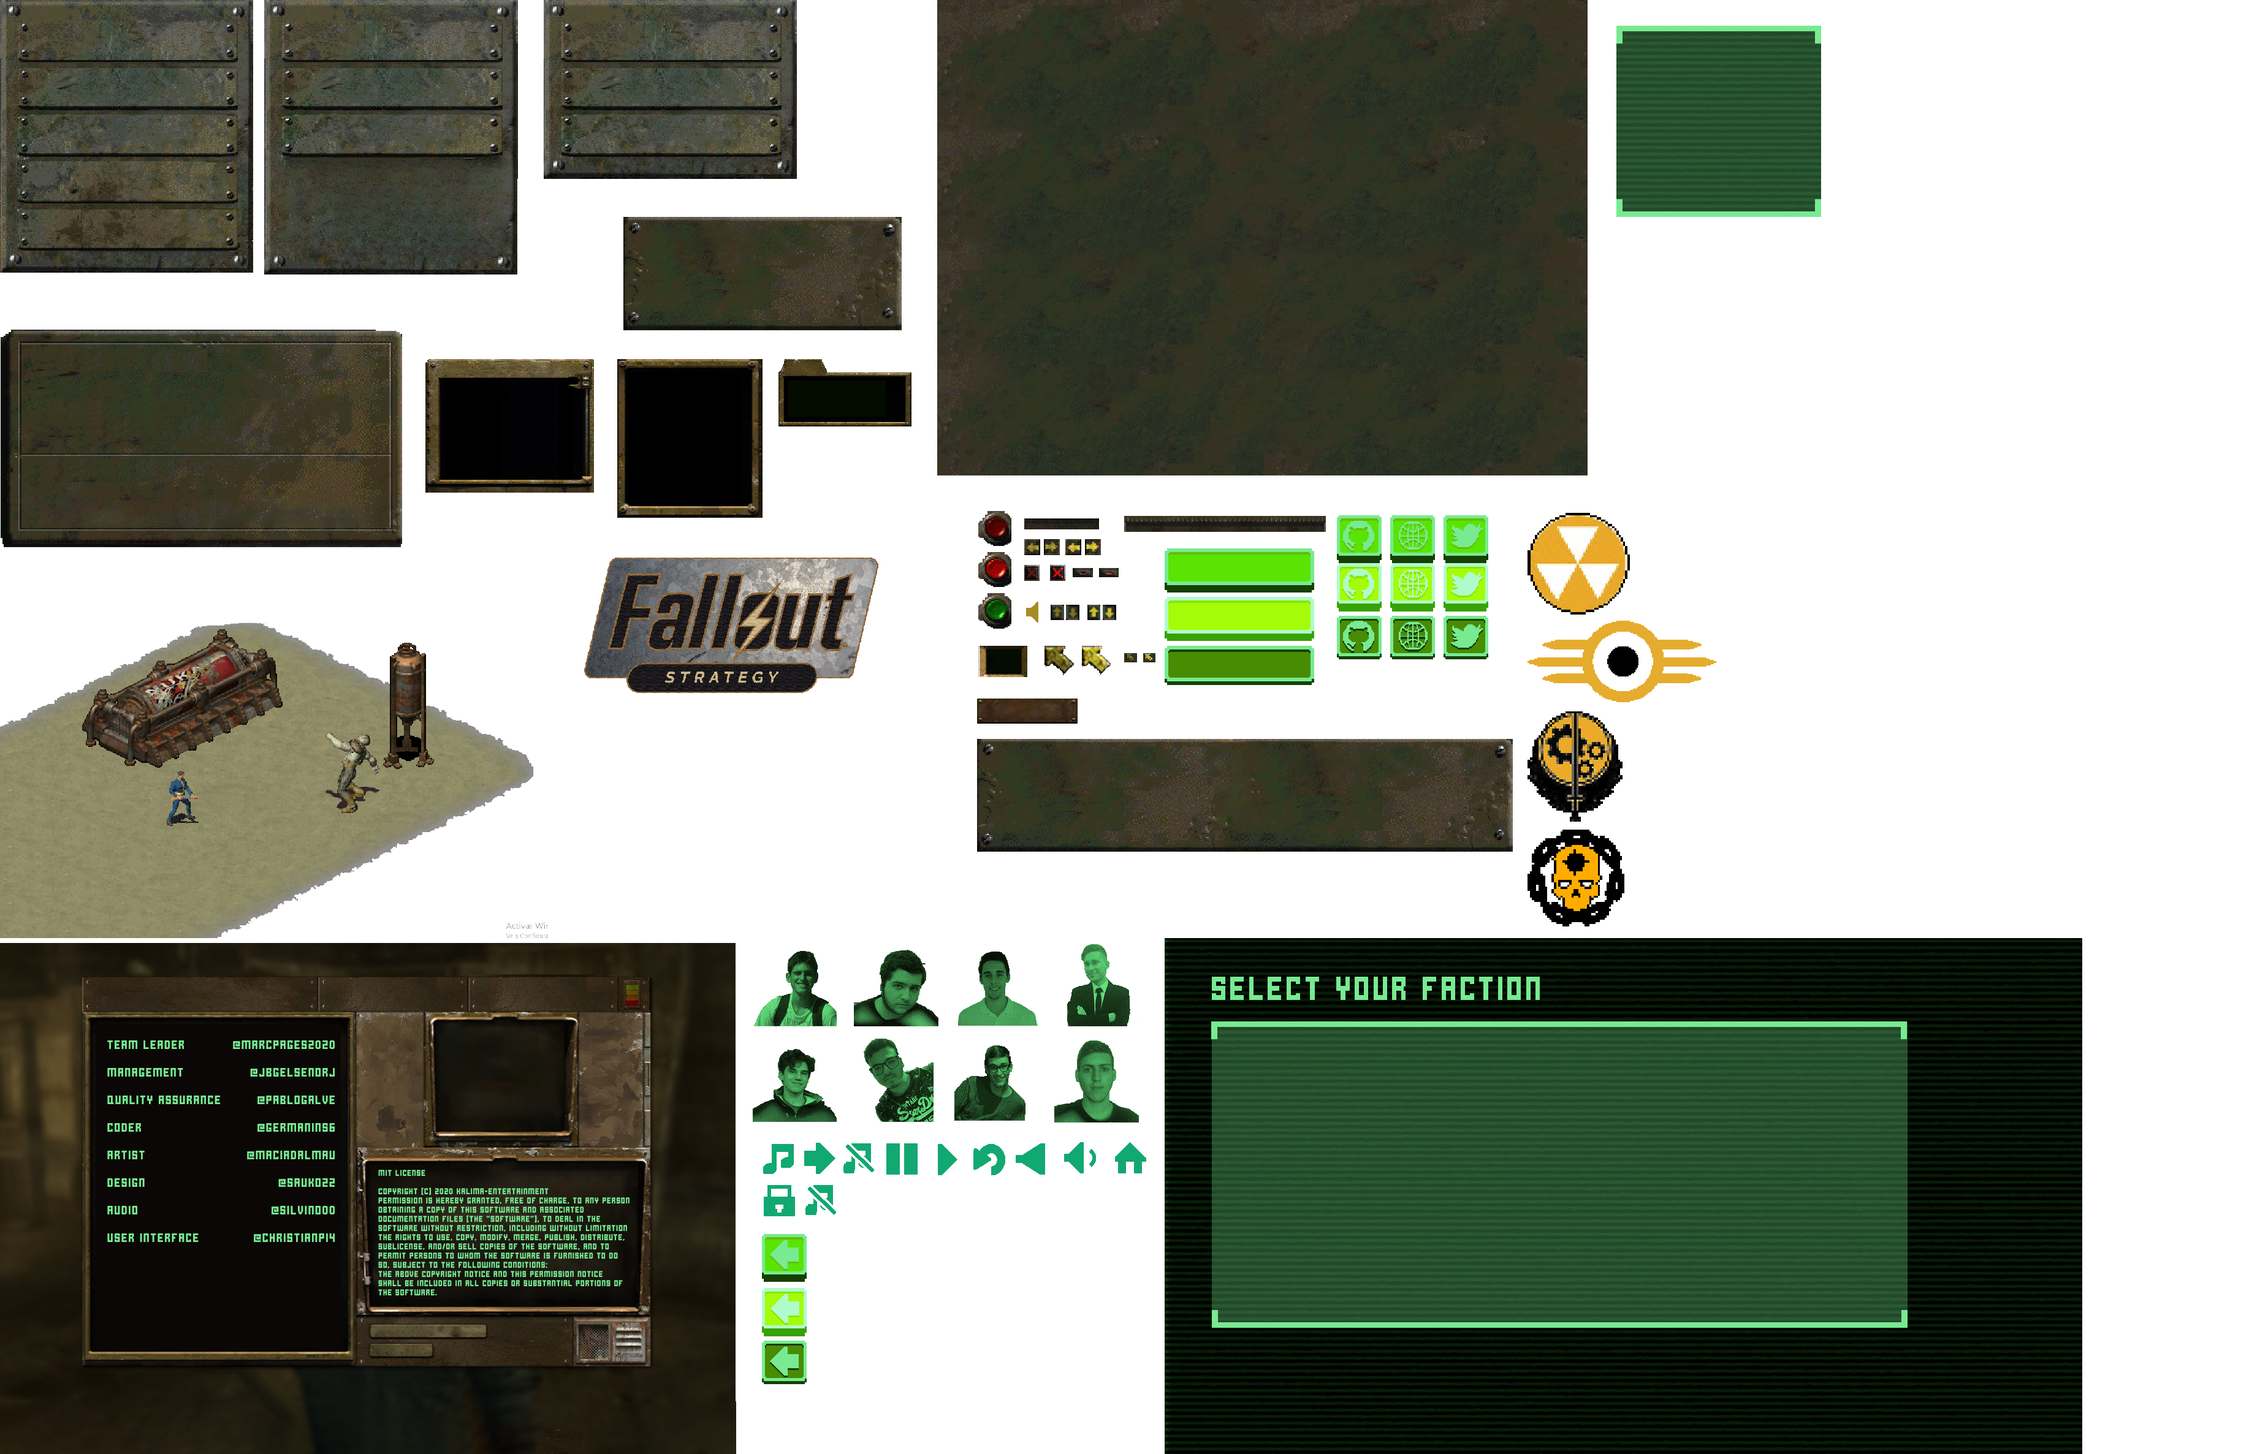
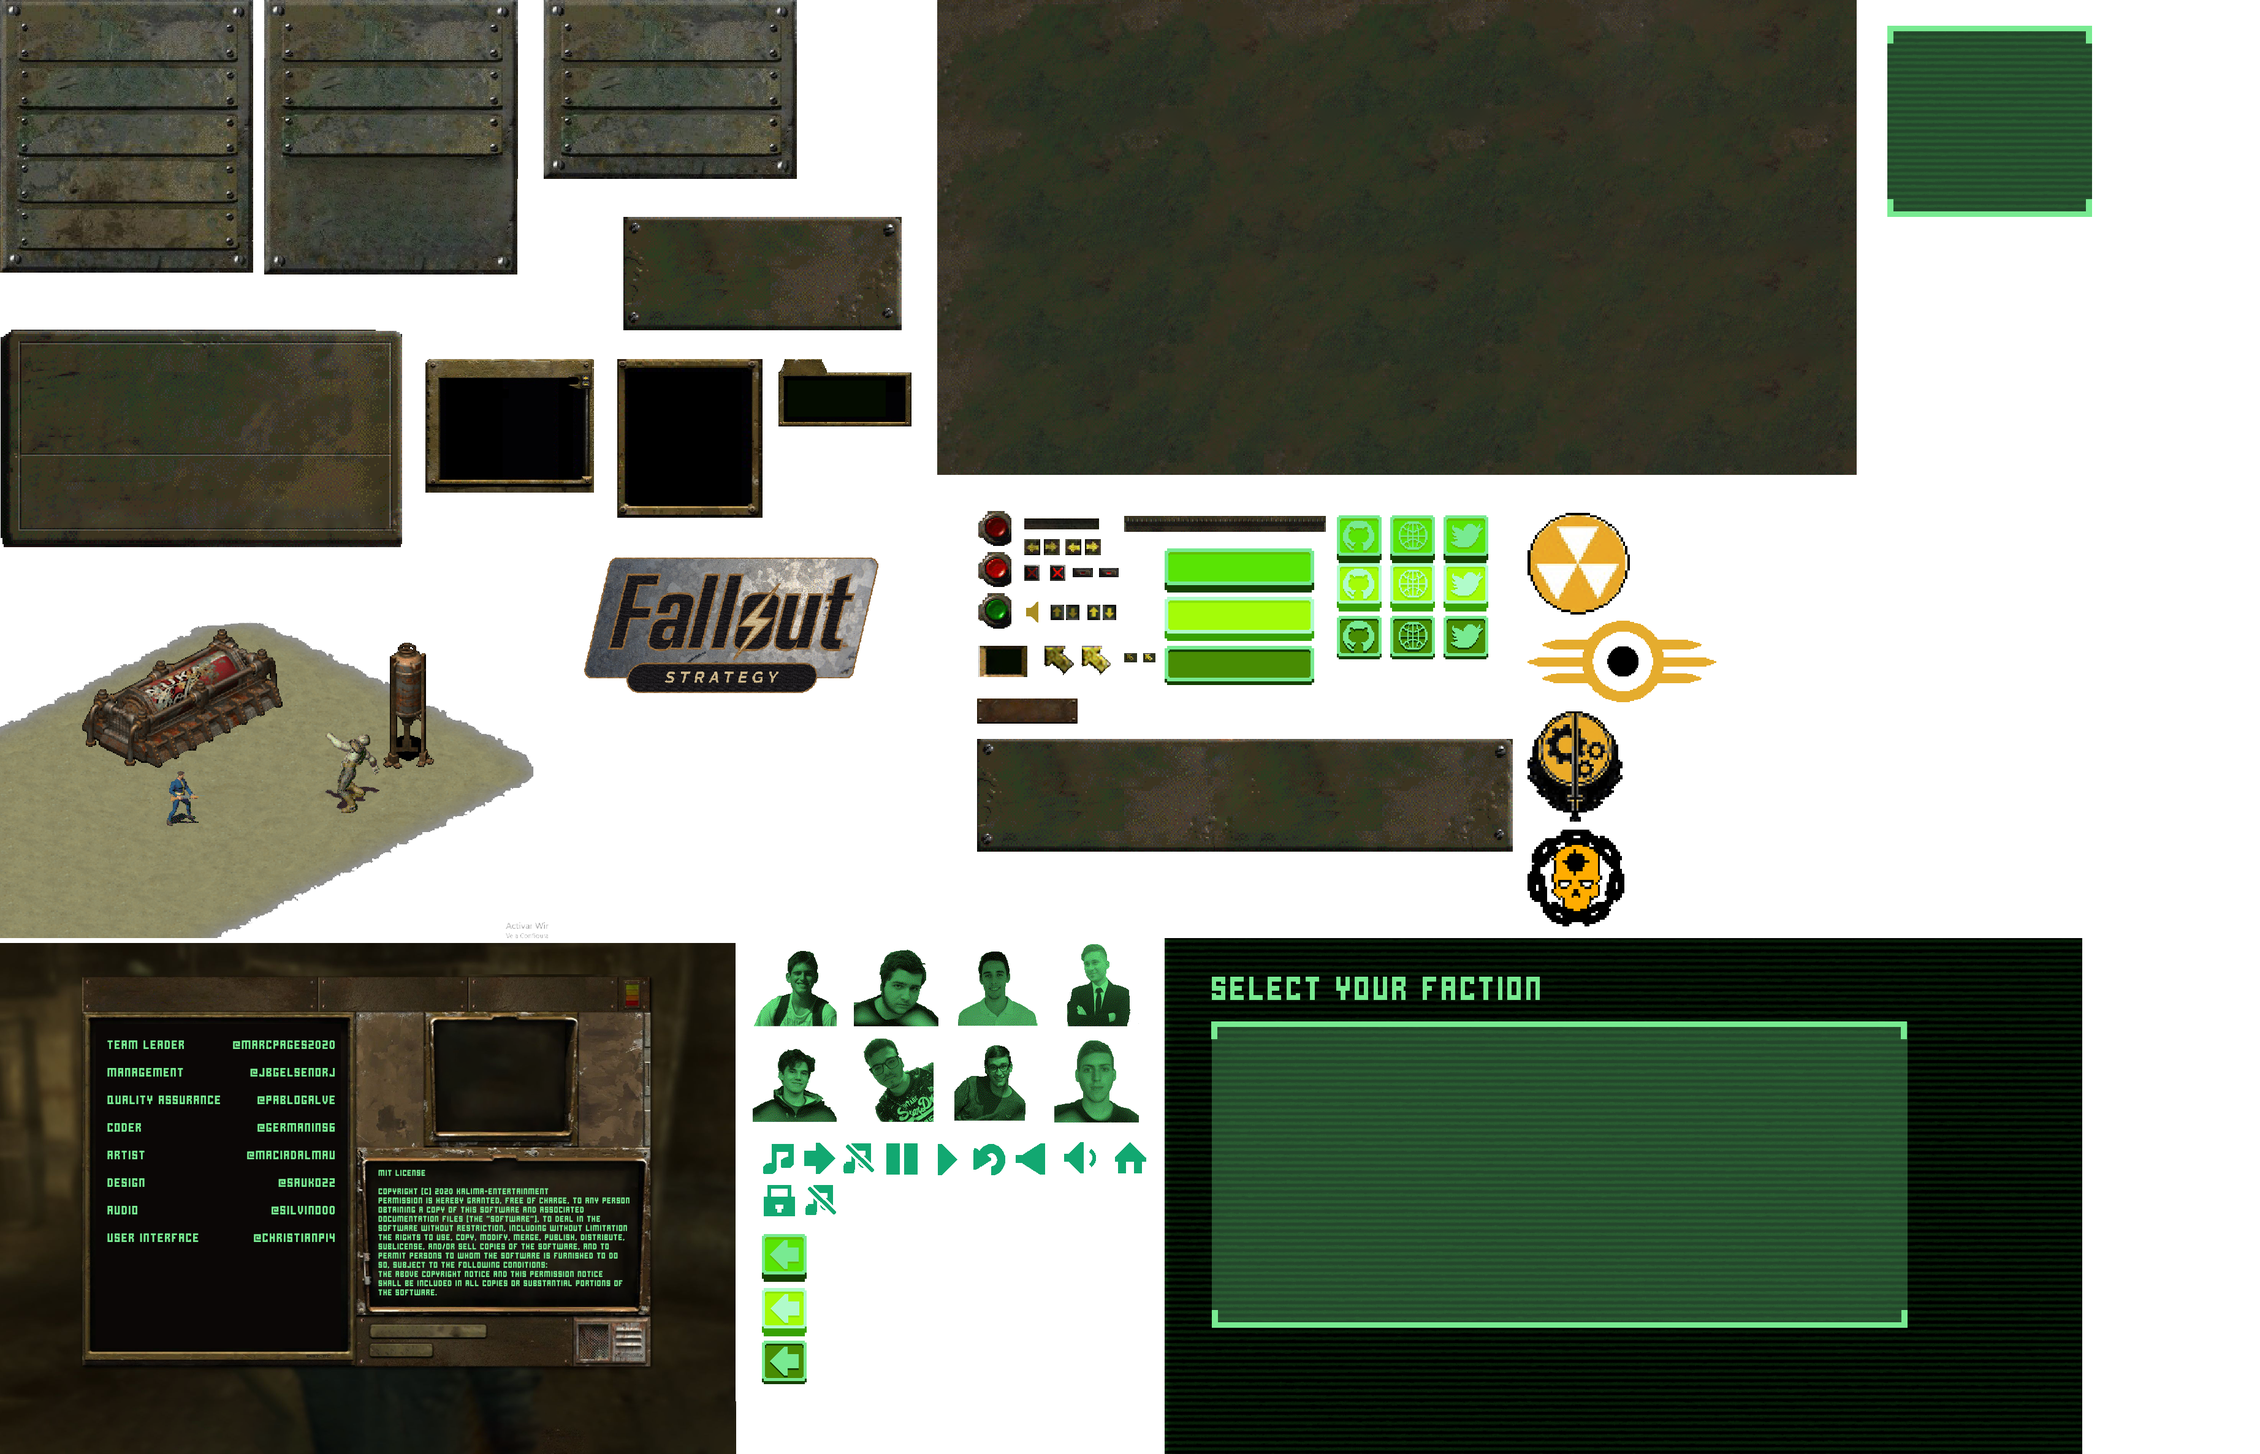
Settings background and main fixed
Fixed Main Menu and Settings Menu in Main and Pause

Changed region(s): [[0.6862, 0.0, 0.9357, 0.343]]

diff --git a/FalloutStrategy/Motor2D/MenuManager.cpp b/FalloutStrategy/Motor2D/MenuManager.cpp
@@ -1,4 +1,4 @@
-#include "p2Defs.h"
+#include "p2Defs.h"
 #include "p2Log.h"
 #include "j1App.h"
 #include "j1Input.h"
@@ -35,24 +35,26 @@ void MenuManager::CreateMainMenu()
 
 	App->player->Disable();
 
-	//Images
-	main_menu.background = (j1Image*)App->gui->CreateImage(-5, 0, Image, { 1526, 0, 1075, 783 }, NULL, this);
+	//Images															
+	main_menu.background = (j1Image*)App->gui->CreateImage(-5, 0, Image, { 1529, 0, 1502, 775 }, NULL, this);
+	main_menu.image = (j1Image*)App->gui->CreateImage(0, 350, Image1, { 0, 1016, 871, 516 }, NULL, this);
 	main_menu.logo = (j1Image*)App->gui->CreateImage(40, 40, Logo, { 938, 903, 505, 233 }, NULL, this);
-	main_menu.panel = (j1Image*)App->gui->CreateImage(570, 260, Panel, { 0, 0, 416, 448 }, NULL, this);
+	main_menu.panel = (j1Image*)App->gui->CreateImage(827, 260, Panel, { 0, 0, 416, 448 }, NULL, this);
 	
 	//Labels
-	main_menu.new_game_text = (UI_Label*)App->gui->CreateLabel(700, 300, text_new_game, "NEW GAME", NULL, this, NULL);
-	main_menu.load_game_text = (UI_Label*)App->gui->CreateLabel(700, 377, text_load_game, "LOAD GAME", NULL, this, NULL);
-	main_menu.settings_text = (UI_Label*)App->gui->CreateLabel(700, 454, text_settings, "SETTINGS", NULL, this, NULL);
-	main_menu.credits_text = (UI_Label*)App->gui->CreateLabel(700, 531, text_credits, "CREDITS", NULL, this, NULL);
-	main_menu.exit_text = (UI_Label*)App->gui->CreateLabel(700, 608, text_exit, "EXIT", NULL, this, NULL);
+	main_menu.new_game_text = (UI_Label*)App->gui->CreateLabel(957,300, text_new_game, "NEW GAME", NULL, this, NULL);
+	main_menu.load_game_text = (UI_Label*)App->gui->CreateLabel(957, 377, text_load_game, "LOAD GAME", NULL, this, NULL);
+	main_menu.settings_text = (UI_Label*)App->gui->CreateLabel(957, 454, text_settings, "SETTINGS", NULL, this, NULL);
+	main_menu.credits_text = (UI_Label*)App->gui->CreateLabel(957, 531, text_credits, "CREDITS", NULL, this, NULL);
+	main_menu.exit_text = (UI_Label*)App->gui->CreateLabel(957, 608, text_exit, "EXIT", NULL, this, NULL);
 
 	//Buttons
-	main_menu.new_game_button = (UI_Button*)App->gui->CreateButton(630, 295, button_new_game, { 1596,834,60,62 }, { 1596,901,60,62 }, { 1596,967,60,62 }, NULL, this);
-	main_menu.load_game_button = (UI_Button*)App->gui->CreateButton(630, 373, button_load_game, { 1596,834,60,62 }, { 1596,901,60,62 }, { 1596,967,60,62 }, NULL, this);
-	main_menu.settings_button = (UI_Button*)App->gui->CreateButton(630, 450, button_settings, { 1596,834,60,62 }, { 1596,901,60,62 }, { 1596,967,60,62 }, NULL, this);
-	main_menu.credits_button = (UI_Button*)App->gui->CreateButton(630, 527, button_credits, { 1596,834,60,62 }, { 1596,901,60,62 }, { 1596,967,60,62 }, NULL, this);
-	main_menu.exit_button = (UI_Button*)App->gui->CreateButton(630, 604, button_exit, { 1596,834,60,62 }, { 1596,901,60,62 }, { 1596,967,60,62 }, NULL, this);
+	main_menu.new_game_button = (UI_Button*)App->gui->CreateButton(887, 295, button_new_game, { 1596,834,60,62 }, { 1596,901,60,62 }, { 1596,967,60,62 }, NULL, this);
+	main_menu.load_game_button = (UI_Button*)App->gui->CreateButton(887, 373, button_load_game, { 1596,834,60,62 }, { 1596,901,60,62 }, { 1596,967,60,62 }, NULL, this);
+	main_menu.settings_button = (UI_Button*)App->gui->CreateButton(887, 450, button_settings, { 1596,834,60,62 }, { 1596,901,60,62 }, { 1596,967,60,62 }, NULL, this);
+	main_menu.credits_button = (UI_Button*)App->gui->CreateButton(887, 527, button_credits, { 1596,834,60,62 }, { 1596,901,60,62 }, { 1596,967,60,62 }, NULL, this);
+	main_menu.exit_button = (UI_Button*)App->gui->CreateButton(887, 604, button_exit, { 1596,834,60,62 }, { 1596,901,60,62 }, { 1596,967,60,62 }, NULL, this);
+
 }
 
 void MenuManager::DestroyMainMenu()
@@ -62,6 +64,7 @@ void MenuManager::DestroyMainMenu()
 
 	//Destroying images
 	App->gui->Delete_Element(main_menu.background);
+	App->gui->Delete_Element(main_menu.image);
 	App->gui->Delete_Element(main_menu.logo);
 	App->gui->Delete_Element(main_menu.panel);
 
@@ -126,31 +129,31 @@ void MenuManager::CreateSettings()
 {
 
 	//Images
-	settings_menu.background = (j1Image*)App->gui->CreateImage(-5, 0, Image, { 1526, 0, 1075, 783 }, NULL, this);
-	settings_menu.panel_volume = (j1Image*)App->gui->CreateImage(190, 125, Volume_Panel, { 0, 537, 658, 358 }, NULL, this);
-	settings_menu.panel_cap = (j1Image*)App->gui->CreateImage(300, 500, Cap_Panel, { 1017, 352, 455, 190 }, NULL, this);
-	settings_menu.mute = (j1Image*)App->gui->CreateImage(275, 275, Mute, { 1674, 981, 20, 36 }, NULL, this);
-	settings_menu.fps_image = (j1Image*)App->gui->CreateImage(475, 600, FPS, { 1599, 1054, 77, 52 }, NULL, this);
+	settings_menu.background = (j1Image*)App->gui->CreateImage(-5, 0, Image, { 1529, 0, 1502, 775 }, NULL, this);
+	settings_menu.panel_volume = (j1Image*)App->gui->CreateImage(310, 125, Volume_Panel, { 0, 537, 658, 358 }, NULL, this);
+	settings_menu.panel_cap = (j1Image*)App->gui->CreateImage(420, 500, Cap_Panel, { 1017, 352, 455, 190 }, NULL, this);
+	settings_menu.mute = (j1Image*)App->gui->CreateImage(395, 275, Mute, { 1674, 981, 20, 36 }, NULL, this);
+	settings_menu.fps_image = (j1Image*)App->gui->CreateImage(595, 600, FPS, { 1599, 1054, 77, 52 }, NULL, this);
 
 	//Labels
-	settings_menu.fps = (UI_Label*)App->gui->CreateLabel(400, 525, text_fps, "REFRESH RATE", NULL, this, NULL);
-	settings_menu.fx_volume = (UI_Label*)App->gui->CreateLabel(240, 335, text_fx_volume, "SOUND EFFECTS VOLUME", NULL, this, NULL);
-	settings_menu.music_volume = (UI_Label*)App->gui->CreateLabel(240, 150, text_music_volume, "MUSIC VOLUME", NULL, this, NULL);
-	settings_menu.settings_text = (UI_Label*)App->gui->CreateLabel(435, 50, text_settings, "SETTINGS", NULL, this, NULL);
+	settings_menu.fps = (UI_Label*)App->gui->CreateLabel(520, 525, text_fps, "REFRESH RATE", NULL, this, NULL);
+	settings_menu.fx_volume = (UI_Label*)App->gui->CreateLabel(360, 335, text_fx_volume, "SOUND EFFECTS VOLUME", NULL, this, NULL);
+	settings_menu.music_volume = (UI_Label*)App->gui->CreateLabel(360, 150, text_music_volume, "MUSIC VOLUME", NULL, this, NULL);
+	settings_menu.settings_text = (UI_Label*)App->gui->CreateLabel(555, 50, text_settings, "SETTINGS", NULL, this, NULL);
 
 	//Music Slider
-	settings_menu.volume_music_slider = (UI_Slider*)App->gui->CreateSlider(345, 220, Slider_music, { 1834,842,329,27 }, { 1792,926,33,16 }, 400, NULL, this);
-	settings_menu.left_music_button = (UI_Button*)App->gui->CreateButton(315, 220, Button_slider_music_left, { 1671,880,26,25 }, { 1738,880,26,25 }, { 1738,880,26,25 }, NULL, this);
-	settings_menu.right_music_button = (UI_Button*)App->gui->CreateButton(676, 220, Button_slider_music_right, { 1704,880,26,25 }, { 1771,880,26,25 }, { 1771,880,26,25 }, NULL, this);
+	settings_menu.volume_music_slider = (UI_Slider*)App->gui->CreateSlider(465, 220, Slider_music, { 1834,842,329,27 }, { 1792,926,33,16 }, 400, NULL, this);
+	settings_menu.left_music_button = (UI_Button*)App->gui->CreateButton(435, 220, Button_slider_music_left, { 1671,880,26,25 }, { 1738,880,26,25 }, { 1738,880,26,25 }, NULL, this);
+	settings_menu.right_music_button = (UI_Button*)App->gui->CreateButton(787, 220, Button_slider_music_right, { 1704,880,26,25 }, { 1771,880,26,25 }, { 1771,880,26,25 }, NULL, this);
 
 	//Fx Slider
-	settings_menu.volume_fx_slider = (UI_Slider*)App->gui->CreateSlider(345, 405, Slider_fx, { 1834,842,329,27 }, { 1792,926,33,16 }, 400, NULL, this);
-	settings_menu.left_fx_button = (UI_Button*)App->gui->CreateButton(315, 405, Button_slider_fx_left, { 1671,880,26,25 }, { 1738,880,26,25 }, { 1738,880,26,25 }, NULL, this);
-	settings_menu.right_fx_button = (UI_Button*)App->gui->CreateButton(676, 405, Button_slider_fx_right, { 1704,880,26,25 }, { 1771,880,26,25 }, { 1771,880,26,25 }, NULL, this);
+	settings_menu.volume_fx_slider = (UI_Slider*)App->gui->CreateSlider(465, 405, Slider_fx, { 1834,842,329,27 }, { 1792,926,33,16 }, 400, NULL, this);
+	settings_menu.left_fx_button = (UI_Button*)App->gui->CreateButton(435, 405, Button_slider_fx_left, { 1671,880,26,25 }, { 1738,880,26,25 }, { 1738,880,26,25 }, NULL, this);
+	settings_menu.right_fx_button = (UI_Button*)App->gui->CreateButton(796, 405, Button_slider_fx_right, { 1704,880,26,25 }, { 1771,880,26,25 }, { 1771,880,26,25 }, NULL, this);
 
 	//Buttons
-	settings_menu.cap_button = (UI_Button*)App->gui->CreateButton(425, 615, button_cap, { 1671,922,25,26 }, { 1713,922,25,26 }, { 1713,922,25,26 }, NULL, this);
-	settings_menu.mute_button = (UI_Button*)App->gui->CreateButton(240, 280, button_mute, { 1671,922,25,26 }, { 1713,922,25,26 }, { 1713,922,25,26 }, NULL, this);
+	settings_menu.cap_button = (UI_Button*)App->gui->CreateButton(545, 615, button_cap, { 1671,922,25,26 }, { 1713,922,25,26 }, { 1713,922,25,26 }, NULL, this);
+	settings_menu.mute_button = (UI_Button*)App->gui->CreateButton(360, 280, button_mute, { 1671,922,25,26 }, { 1713,922,25,26 }, { 1713,922,25,26 }, NULL, this);
 	settings_menu.back_button = (UI_Button*)App->gui->CreateButton(40, 40, button_back, { 1704,1054,48,46 }, { 1765,1054,48,46 }, { 1765,1054,48,46 }, NULL, this);
 
 
@@ -286,7 +289,7 @@ void MenuManager::CreatePauseMenu()
 {
 
 	//Images
-	pause_menu.panel = (j1Image*)App->gui->CreateImage(434, 213, Image, { 2637, 41, 334, 313 }, NULL, this);
+	pause_menu.panel = (j1Image*)App->gui->CreateImage(434, 213, Image, { 3079, 41, 334, 313 }, NULL, this);
 
 
 	//Buttons
@@ -326,31 +329,31 @@ void MenuManager::CreatePauseSettings()
 {
 
 	//Images
-	settings_menu.background = (j1Image*)App->gui->CreateImage(-5, 0, Image, { 1526, 0, 1075, 783 }, NULL, this);
-	settings_menu.panel_volume = (j1Image*)App->gui->CreateImage(190, 125, Volume_Panel, { 0, 537, 658, 358 }, NULL, this);
-	settings_menu.panel_cap = (j1Image*)App->gui->CreateImage(300, 500, Cap_Panel, { 1017, 352, 455, 190 }, NULL, this);
-	settings_menu.mute = (j1Image*)App->gui->CreateImage(275, 275, Mute, { 1674, 981, 20, 36 }, NULL, this);
-	settings_menu.fps_image = (j1Image*)App->gui->CreateImage(475, 600, FPS, { 1599, 1054, 77, 52 }, NULL, this);
+	settings_menu.background = (j1Image*)App->gui->CreateImage(-5, 0, Image, { 1529, 0, 1502, 775 }, NULL, this);
+	settings_menu.panel_volume = (j1Image*)App->gui->CreateImage(310, 125, Volume_Panel, { 0, 537, 658, 358 }, NULL, this);
+	settings_menu.panel_cap = (j1Image*)App->gui->CreateImage(420, 500, Cap_Panel, { 1017, 352, 455, 190 }, NULL, this);
+	settings_menu.mute = (j1Image*)App->gui->CreateImage(395, 275, Mute, { 1674, 981, 20, 36 }, NULL, this);
+	settings_menu.fps_image = (j1Image*)App->gui->CreateImage(595, 600, FPS, { 1599, 1054, 77, 52 }, NULL, this);
 
 	//Labels
-	settings_menu.fps = (UI_Label*)App->gui->CreateLabel(400, 525, text_fps, "REFRESH RATE", NULL, this, NULL);
-	settings_menu.fx_volume = (UI_Label*)App->gui->CreateLabel(240, 335, text_fx_volume, "SOUND EFFECTS VOLUME", NULL, this, NULL);
-	settings_menu.music_volume = (UI_Label*)App->gui->CreateLabel(240, 150, text_music_volume, "MUSIC VOLUME", NULL, this, NULL);
-	settings_menu.settings_text = (UI_Label*)App->gui->CreateLabel(435, 50, text_settings, "SETTINGS", NULL, this, NULL);
+	settings_menu.fps = (UI_Label*)App->gui->CreateLabel(520, 525, text_fps, "REFRESH RATE", NULL, this, NULL);
+	settings_menu.fx_volume = (UI_Label*)App->gui->CreateLabel(360, 335, text_fx_volume, "SOUND EFFECTS VOLUME", NULL, this, NULL);
+	settings_menu.music_volume = (UI_Label*)App->gui->CreateLabel(360, 150, text_music_volume, "MUSIC VOLUME", NULL, this, NULL);
+	settings_menu.settings_text = (UI_Label*)App->gui->CreateLabel(555, 50, text_settings, "SETTINGS", NULL, this, NULL);
 
 	//Music Slider
-	settings_menu.volume_music_slider = (UI_Slider*)App->gui->CreateSlider(345, 220, Slider_music, { 1834,842,329,27 }, { 1792,926,33,16 }, 400, NULL, this);
-	settings_menu.left_music_button = (UI_Button*)App->gui->CreateButton(315, 220, Button_slider_music_left, { 1671,880,26,25 }, { 1738,880,26,25 }, { 1738,880,26,25 }, NULL, this);
-	settings_menu.right_music_button = (UI_Button*)App->gui->CreateButton(676, 220, Button_slider_music_right, { 1704,880,26,25 }, { 1771,880,26,25 }, { 1771,880,26,25 }, NULL, this);
+	settings_menu.volume_music_slider = (UI_Slider*)App->gui->CreateSlider(465, 220, Slider_music, { 1834,842,329,27 }, { 1792,926,33,16 }, 400, NULL, this);
+	settings_menu.left_music_button = (UI_Button*)App->gui->CreateButton(435, 220, Button_slider_music_left, { 1671,880,26,25 }, { 1738,880,26,25 }, { 1738,880,26,25 }, NULL, this);
+	settings_menu.right_music_button = (UI_Button*)App->gui->CreateButton(796, 220, Button_slider_music_right, { 1704,880,26,25 }, { 1771,880,26,25 }, { 1771,880,26,25 }, NULL, this);
 
 	//Fx Slider
-	settings_menu.volume_fx_slider = (UI_Slider*)App->gui->CreateSlider(345, 405, Slider_fx, { 1834,842,329,27 }, { 1792,926,33,16 }, 400, NULL, this);
-	settings_menu.left_fx_button = (UI_Button*)App->gui->CreateButton(315, 405, Button_slider_fx_left, { 1671,880,26,25 }, { 1738,880,26,25 }, { 1738,880,26,25 }, NULL, this);
-	settings_menu.right_fx_button = (UI_Button*)App->gui->CreateButton(676, 405, Button_slider_fx_right, { 1704,880,26,25 }, { 1771,880,26,25 }, { 1771,880,26,25 }, NULL, this);
+	settings_menu.volume_fx_slider = (UI_Slider*)App->gui->CreateSlider(465, 405, Slider_fx, { 1834,842,329,27 }, { 1792,926,33,16 }, 400, NULL, this);
+	settings_menu.left_fx_button = (UI_Button*)App->gui->CreateButton(435, 405, Button_slider_fx_left, { 1671,880,26,25 }, { 1738,880,26,25 }, { 1738,880,26,25 }, NULL, this);
+	settings_menu.right_fx_button = (UI_Button*)App->gui->CreateButton(796, 405, Button_slider_fx_right, { 1704,880,26,25 }, { 1771,880,26,25 }, { 1771,880,26,25 }, NULL, this);
 
 	//Buttons
-	settings_menu.cap_button = (UI_Button*)App->gui->CreateButton(425, 615, button_cap, { 1671,922,25,26 }, { 1713,922,25,26 }, { 1713,922,25,26 }, NULL, this);
-	settings_menu.mute_button = (UI_Button*)App->gui->CreateButton(240, 280, button_mute, { 1671,922,25,26 }, { 1713,922,25,26 }, { 1713,922,25,26 }, NULL, this);
+	settings_menu.cap_button = (UI_Button*)App->gui->CreateButton(545, 615, button_cap, { 1671,922,25,26 }, { 1713,922,25,26 }, { 1713,922,25,26 }, NULL, this);
+	settings_menu.mute_button = (UI_Button*)App->gui->CreateButton(360, 280, button_mute, { 1671,922,25,26 }, { 1713,922,25,26 }, { 1713,922,25,26 }, NULL, this);
 	settings_menu.back_button = (UI_Button*)App->gui->CreateButton(40, 40, button_back_pause, { 1704,1054,48,46 }, { 1765,1054,48,46 }, { 1765,1054,48,46 }, NULL, this);
 
 

diff --git a/FalloutStrategy/Motor2D/MenuManager.h b/FalloutStrategy/Motor2D/MenuManager.h
@@ -14,6 +14,7 @@ struct UI_main_menu {
 	j1Image* background = nullptr;
 	j1Image* logo = nullptr;
 	j1Image* panel = nullptr;
+	j1Image* image = nullptr;
 
 	UI_Label* new_game_text = nullptr;
 	UI_Label* load_game_text = nullptr;

diff --git a/FalloutStrategy/Motor2D/UI_element.h b/FalloutStrategy/Motor2D/UI_element.h
@@ -59,6 +59,7 @@ enum UI_Type {
 	Label,
 	Label_timer,
 	Image,
+	Image1,
 	Logo,
 	Panel,
 	text_new_game,
